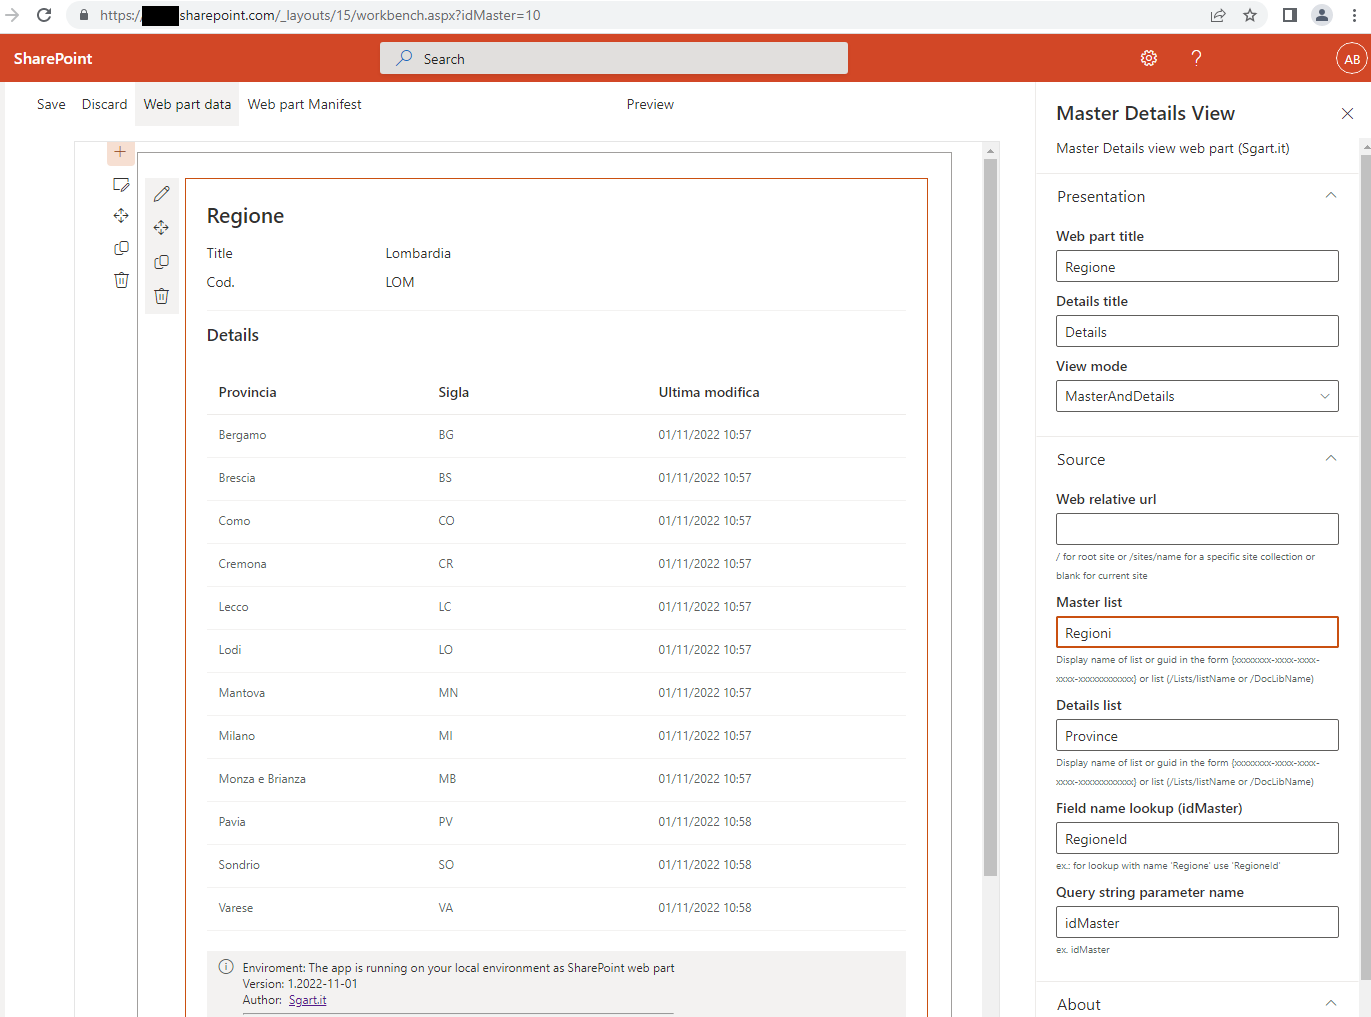
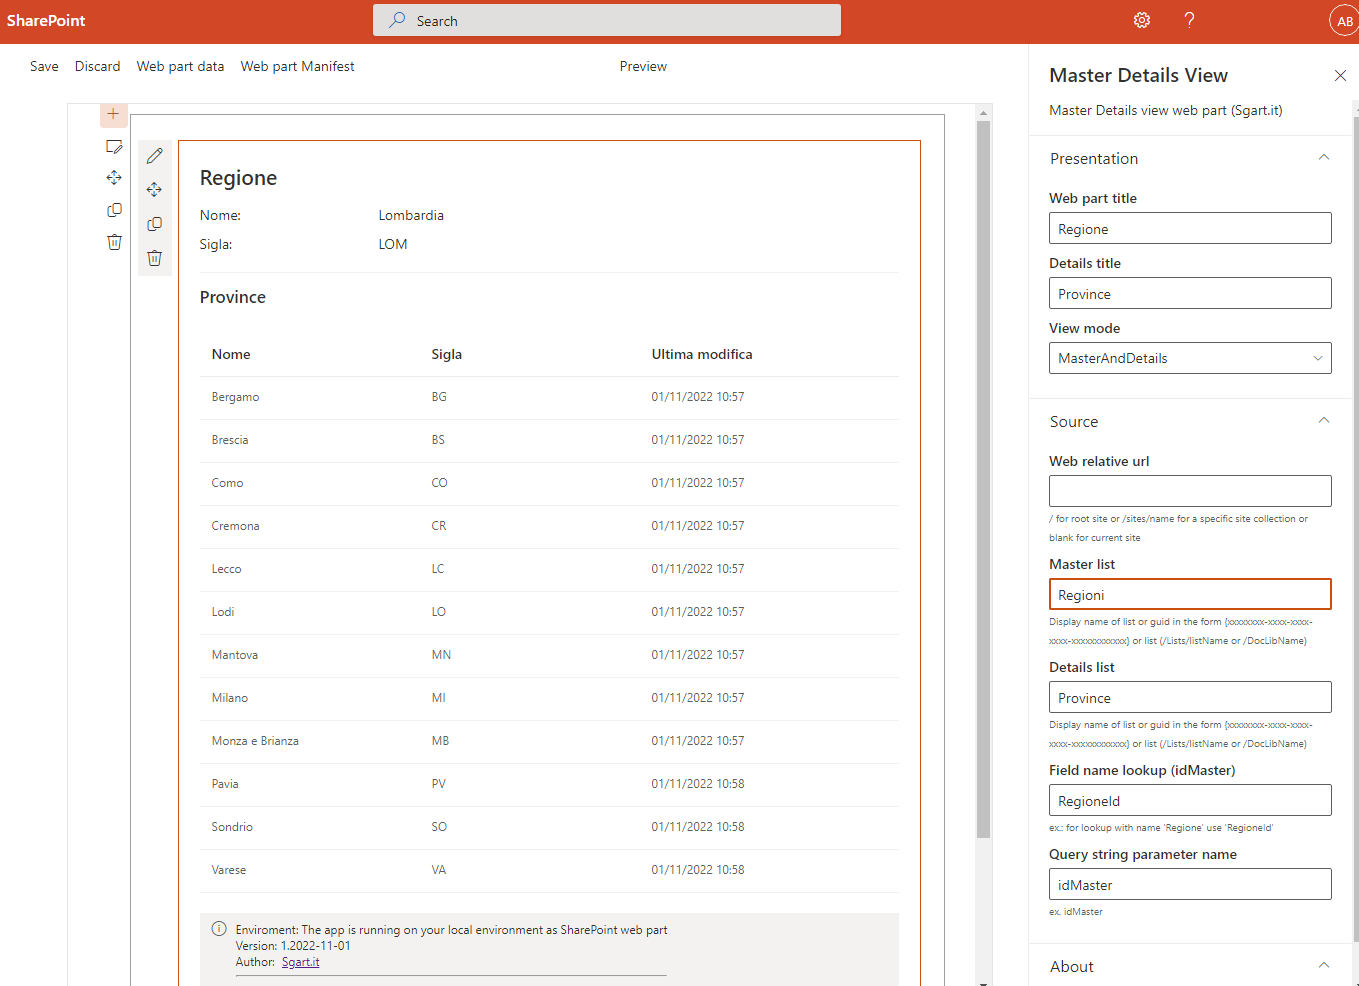
fix text

diff --git a/src/webparts/masterDetails/MasterDetailsViewWebPart.ts b/src/webparts/masterDetails/MasterDetailsViewWebPart.ts
@@ -99,6 +99,8 @@ export default class MasterDetailsViewWebPart extends BaseClientSideWebPart<IMas
   }
 
   protected getPropertyPaneConfiguration(): IPropertyPaneConfiguration {
+    this.render();  // force render
+
     const viewModeOptions = Object.keys(ViewMode)
       .filter((v) => isNaN(Number(v)))
       .map(item => { return { key: item, text: item } });
@@ -156,7 +158,7 @@ export default class MasterDetailsViewWebPart extends BaseClientSideWebPart<IMas
               groupFields: [
                 PropertyPaneLink('linkField', {
                   text: "Sgart.it",
-                  href: "https://www.sgart.it/?SPFxMasterDetails",
+                  href: "https://www.sgart.it/?SPFxMasterDetailsView",
                   target: "_blank"
                 })
               ]
@@ -170,4 +172,6 @@ export default class MasterDetailsViewWebPart extends BaseClientSideWebPart<IMas
   protected onPropertyPaneConfigurationComplete(): void {
     this.render();
   }
+  /*protected onPropertyPaneFieldChanged(propertyPath: string, oldValue: any, newValue: any): void {
+  }*/
 }

diff --git a/src/webparts/masterDetails/components/views/Details.tsx b/src/webparts/masterDetails/components/views/Details.tsx
@@ -11,7 +11,7 @@ export interface IDetailsViewProps {
 export default class Details extends React.Component<IDetailsViewProps> {
 
   private _columns: IColumn[] = [
-    { key: 'title', name: 'Provincia', fieldName: 'title', minWidth: 100, maxWidth: 200, isResizable: true },
+    { key: 'title', name: 'Nome', fieldName: 'title', minWidth: 100, maxWidth: 200, isResizable: true },
     { key: 'codProvincia', name: 'Sigla', fieldName: 'codProvincia', minWidth: 100, maxWidth: 200, isResizable: true },
     { key: 'modified', name: 'Ultima modifica', fieldName: 'modified', minWidth: 100, maxWidth: 200, isResizable: true },
   ];

diff --git a/README.md b/README.md
@@ -1,6 +1,6 @@
 # sgart-spfx-master-details-view-webpart
 
-SPFx base template for master details (beta)
+SPFx base template for master details view (beta)
 
 ## Summary
 
